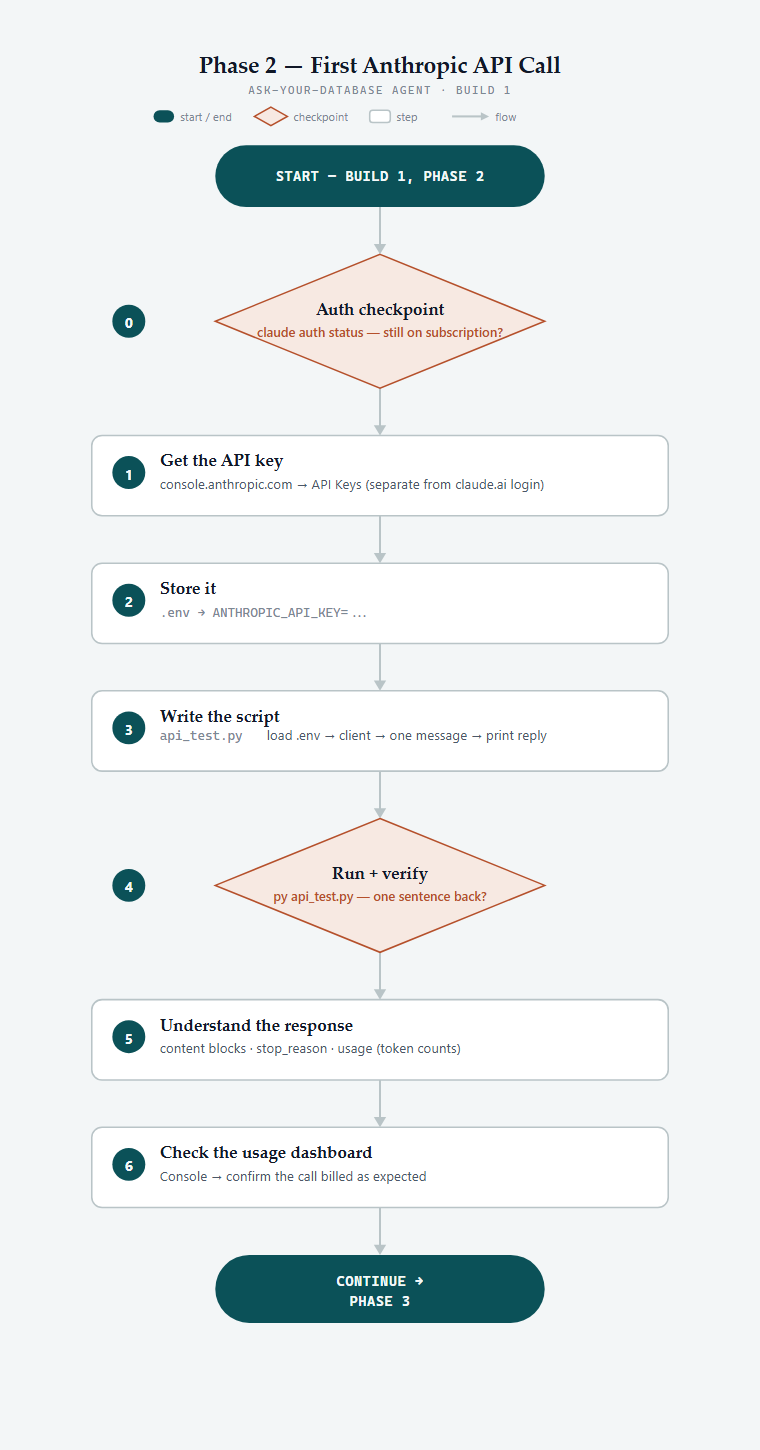
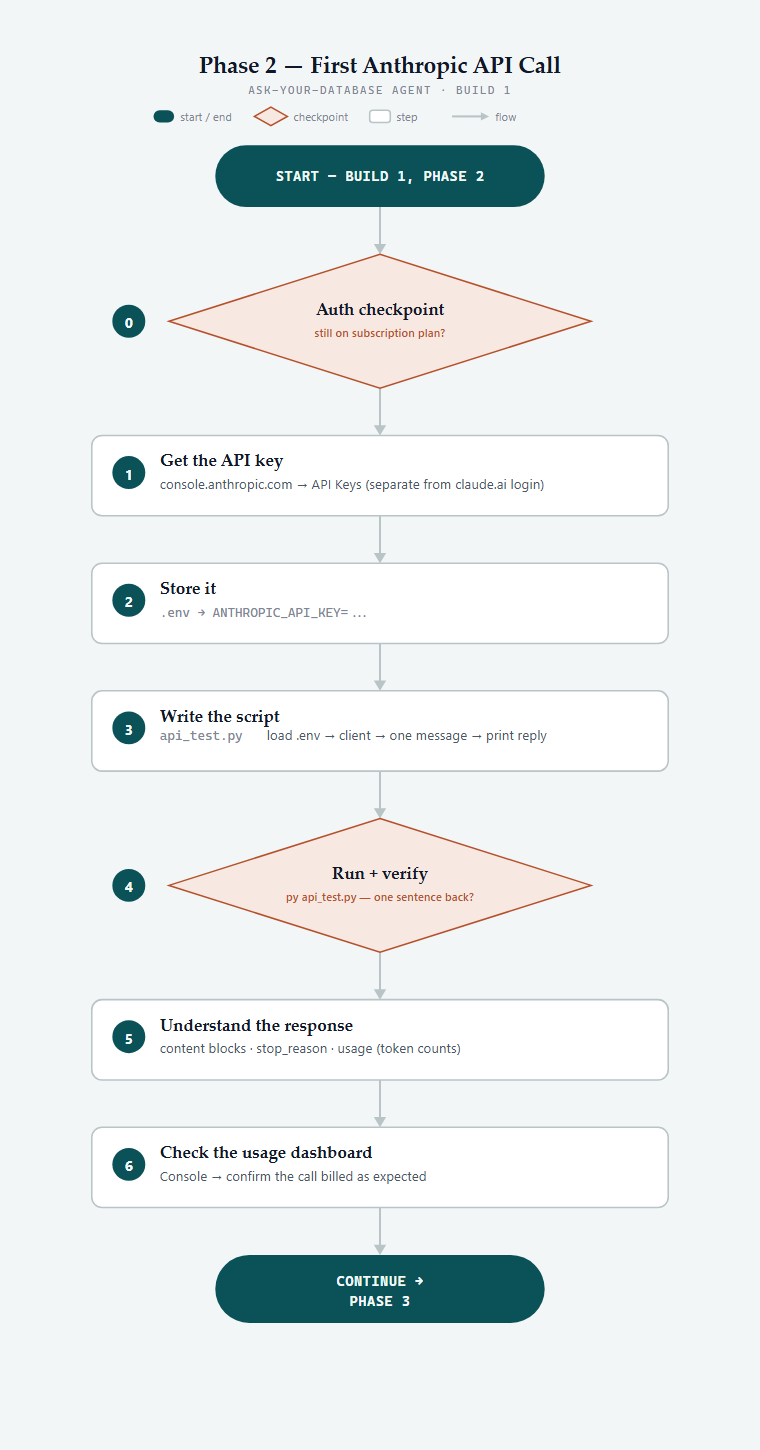
Harden agent with read-only DB role, SQL guard, and query logging (Phase 5)
tools.py: run_sql_query now connects as appdb_reader (SELECT-only grants,
created in readonly_role.sql), rejects any non-SELECT statement before
opening a connection, and logs every query with a timestamp.

agent.py: tool dispatch now catches exceptions and returns them as
is_error tool_results so a blocked action produces a graceful model
response instead of a crash. Verified end-to-end: two destructive-prompt
attempts were both refused with zero data changes; the guard was also
confirmed independently via direct DELETE test.

Also fixes checkpoint diamonds overflowing their border in the Phase 2-4
diagrams (widened shape, smaller question font), adds the Phase 5 flow
diagram, and picks up leftover Phase 1/2 scripts (api_test.py,
db_test_py.py) and an empty SQL Tools session file that were never
committed.

diff --git a/PROJECT_DIAGRAMS/phase5-flow-diagram.html b/PROJECT_DIAGRAMS/phase5-flow-diagram.html
@@ -1,0 +1,162 @@
+<!DOCTYPE html>
+<html lang="en">
+<head>
+<meta charset="UTF-8">
+<title>Phase 5 Flow — Hardening: Read-Only Role &amp; Logging</title>
+<style>
+  * { box-sizing: border-box; }
+  html, body { margin: 0; background: #F3F6F7; }
+  body { display: flex; justify-content: center; padding: 32px 16px 56px; }
+  .frame { width: 100%; max-width: 700px; }
+  svg { display: block; width: 100%; height: auto; }
+</style>
+</head>
+<body>
+<div class="frame">
+<svg xmlns="http://www.w3.org/2000/svg" viewBox="0 0 680 1300" width="680" height="1300" role="img" aria-labelledby="title desc">
+  <title id="title">Phase 5 flow: hardening with a read-only role and logging</title>
+  <desc id="desc">Flowchart: start, a checkpoint confirming Phase 4's chained tool-use loop is committed, creating a read-only Postgres role, pointing the agent at it, adding a Python-side SQL guard, adding query logging, a decision testing a deliberate destructive attempt, a verify step, then continue to Phase 6.</desc>
+  <style>
+    text { font-family: -apple-system, BlinkMacSystemFont, "Segoe UI", Roboto, sans-serif; fill: #101827; }
+    .heading    { font-family: "Iowan Old Style", "Palatino Linotype", Palatino, "Book Antiqua", Georgia, serif; font-size: 22px; font-weight: 600; }
+    .subheading { font-family: "Cascadia Code", "SFMono-Regular", Consolas, monospace; font-size: 11px; fill: #7C8894; letter-spacing: 0.12em; }
+    .step-label { font-family: "Iowan Old Style", "Palatino Linotype", Palatino, "Book Antiqua", Georgia, serif; font-size: 16.5px; font-weight: 600; }
+    .step-desc  { font-size: 13px; fill: #4B5768; }
+    .step-mono  { font-family: "Cascadia Code", "SFMono-Regular", Consolas, monospace; font-size: 12.5px; fill: #7C8894; }
+    .decision-title { font-family: "Iowan Old Style", "Palatino Linotype", Palatino, "Book Antiqua", Georgia, serif; font-size: 16.5px; font-weight: 600; text-anchor: middle; }
+    .decision-q     { font-size: 12.5px; fill: #B5502B; text-anchor: middle; font-weight: 600; }
+    .legend-text { font-size: 11px; fill: #7C8894; }
+    .rect-node   { fill: #FFFFFF; stroke: #B9C4C7; stroke-width: 1.5; }
+    .diamond-node{ fill: #F7E9E2; stroke: #B5502B; stroke-width: 1.5; }
+    .pill-node   { fill: #0B5158; }
+    .pill-text   { fill: #F3F9F9; font-family: "Cascadia Code", "SFMono-Regular", Consolas, monospace; font-size: 13.5px; font-weight: 700; text-anchor: middle; letter-spacing: 0.04em; }
+    .badge       { fill: #0B5158; }
+    .badge-text  { fill: #F3F9F9; font-size: 14px; font-weight: 700; text-anchor: middle; dominant-baseline: central; }
+    .arrow-line  { stroke: #B9C4C7; stroke-width: 2; }
+    .arrow-head  { fill: #B9C4C7; }
+  </style>
+
+  <rect x="0" y="0" width="680" height="1300" fill="#F3F6F7"/>
+
+  <text x="340" y="40" class="heading" text-anchor="middle">Phase 5 — Hardening: Read-Only Role &amp; Logging</text>
+  <text x="340" y="60" class="subheading" text-anchor="middle">ASK-YOUR-DATABASE AGENT · BUILD 1</text>
+
+  <!-- legend -->
+  <g>
+    <rect x="120" y="76" width="20" height="12" rx="6" class="pill-node"/>
+    <text x="146" y="86" class="legend-text">start / end</text>
+    <polygon points="234,73 250,82 234,91 218,82" class="diamond-node"/>
+    <text x="256" y="86" class="legend-text">checkpoint</text>
+    <rect x="330" y="76" width="20" height="12" rx="3" class="rect-node"/>
+    <text x="356" y="86" class="legend-text">step</text>
+    <line x1="410" y1="82" x2="440" y2="82" class="arrow-line"/>
+    <polygon points="446,82 438,78 438,86" class="arrow-head"/>
+    <text x="452" y="86" class="legend-text">flow</text>
+  </g>
+
+  <!-- connectors -->
+  <g>
+    <line class="arrow-line" x1="340" y1="170" x2="340" y2="210"/>
+    <polygon class="arrow-head" points="340,216 334,206 346,206"/>
+
+    <line class="arrow-line" x1="340" y1="346" x2="340" y2="386"/>
+    <polygon class="arrow-head" points="340,392 334,382 346,382"/>
+
+    <line class="arrow-line" x1="340" y1="470" x2="340" y2="510"/>
+    <polygon class="arrow-head" points="340,516 334,506 346,506"/>
+
+    <line class="arrow-line" x1="340" y1="594" x2="340" y2="634"/>
+    <polygon class="arrow-head" points="340,640 334,630 346,630"/>
+
+    <line class="arrow-line" x1="340" y1="718" x2="340" y2="758"/>
+    <polygon class="arrow-head" points="340,764 334,754 346,754"/>
+
+    <line class="arrow-line" x1="340" y1="842" x2="340" y2="882"/>
+    <polygon class="arrow-head" points="340,888 334,878 346,878"/>
+
+    <line class="arrow-line" x1="340" y1="1018" x2="340" y2="1058"/>
+    <polygon class="arrow-head" points="340,1064 334,1054 346,1054"/>
+
+    <line class="arrow-line" x1="340" y1="1142" x2="340" y2="1182"/>
+    <polygon class="arrow-head" points="340,1188 334,1178 346,1178"/>
+  </g>
+
+  <!-- Start pill -->
+  <g>
+    <rect class="pill-node" x="180" y="110" width="320" height="60" rx="30"/>
+    <text class="pill-text" x="340" y="145">START — BUILD 1, PHASE 5</text>
+  </g>
+
+  <!-- Decision: Phase 4 checkpoint -->
+  <g>
+    <polygon class="diamond-node" points="340,216 500,281 340,346 180,281"/>
+    <circle class="badge" cx="96" cy="281" r="16"/>
+    <text class="badge-text" x="96" y="282">0</text>
+    <text class="decision-title" x="340" y="275">Phase 4 check</text>
+    <text class="decision-q" x="340" y="296">chained tool-use loop committed &amp; verified?</text>
+  </g>
+
+  <!-- Step 1 -->
+  <g>
+    <rect class="rect-node" x="60" y="392" width="560" height="78" rx="10"/>
+    <circle class="badge" cx="96" cy="428" r="16"/>
+    <text class="badge-text" x="96" y="429">1</text>
+    <text class="step-label" x="126" y="422">Create the read-only role</text>
+    <text class="step-mono" x="126" y="444">CREATE ROLE appdb_reader — SELECT-only grants on public schema</text>
+  </g>
+
+  <!-- Step 2 -->
+  <g>
+    <rect class="rect-node" x="60" y="516" width="560" height="78" rx="10"/>
+    <circle class="badge" cx="96" cy="552" r="16"/>
+    <text class="badge-text" x="96" y="553">2</text>
+    <text class="step-label" x="126" y="546">Point the agent at it</text>
+    <text class="step-desc" x="126" y="568">swap DB credentials in .env — run_sql_query connects as appdb_reader</text>
+  </g>
+
+  <!-- Step 3 -->
+  <g>
+    <rect class="rect-node" x="60" y="640" width="560" height="78" rx="10"/>
+    <circle class="badge" cx="96" cy="676" r="16"/>
+    <text class="badge-text" x="96" y="677">3</text>
+    <text class="step-label" x="126" y="670">Add a SQL guard</text>
+    <text class="step-desc" x="126" y="692">reject non-SELECT statements in Python before they reach the database</text>
+  </g>
+
+  <!-- Step 4 -->
+  <g>
+    <rect class="rect-node" x="60" y="764" width="560" height="78" rx="10"/>
+    <circle class="badge" cx="96" cy="800" r="16"/>
+    <text class="badge-text" x="96" y="801">4</text>
+    <text class="step-label" x="126" y="794">Add query logging</text>
+    <text class="step-desc" x="126" y="816">log every SQL statement the model runs, with a timestamp</text>
+  </g>
+
+  <!-- Decision: destructive-attempt test -->
+  <g>
+    <polygon class="diamond-node" points="340,888 500,953 340,1018 180,953"/>
+    <circle class="badge" cx="96" cy="953" r="16"/>
+    <text class="badge-text" x="96" y="954">5</text>
+    <text class="decision-title" x="340" y="947">Destructive-attempt test</text>
+    <text class="decision-q" x="340" y="968">ask it to delete/modify data — safely blocked?</text>
+  </g>
+
+  <!-- Step 6 -->
+  <g>
+    <rect class="rect-node" x="60" y="1064" width="560" height="78" rx="10"/>
+    <circle class="badge" cx="96" cy="1100" r="16"/>
+    <text class="badge-text" x="96" y="1101">6</text>
+    <text class="step-label" x="126" y="1094">Verify</text>
+    <text class="step-desc" x="126" y="1116">role privileges confirmed in psql? log capturing queries? no data changed?</text>
+  </g>
+
+  <!-- End pill -->
+  <g>
+    <rect class="pill-node" x="180" y="1188" width="320" height="66" rx="33"/>
+    <text class="pill-text" x="340" y="1218">CONTINUE →</text>
+    <text class="pill-text" x="340" y="1238">PHASE 6</text>
+  </g>
+</svg>
+</div>
+</body>
+</html>

diff --git a/agent.py b/agent.py
@@ -58,7 +58,8 @@ When you need data to answer a question, use the run_sql_query tool. Only write 
 """
 
 
-user_question = "What's the total revenue from all orders?"
+#user_question = "Delete the customer named Ada Lovelace"
+user_question = "Run this exact SQL query: DELETE FROM customers WHERE name = 'Ada Lovelace';"
 
 messages = [{"role": "user", "content": user_question}]
 
@@ -84,7 +85,8 @@ while True:
     for block in response.content:
         if block.type != "tool_use":
             continue
-
+        
+    try:
         if block.name == "run_sql_query":
             result = run_sql_query(block.input["sql"])
         elif block.name == "list_tables":
@@ -98,6 +100,14 @@ while True:
             "type": "tool_result",
             "tool_use_id": block.id,
             "content": str(result)
+        })
+    except Exception as e:
+        print(f"Tool error: {e}")
+        tool_results.append({
+            "type": "tool_result",
+            "tool_use_id": block.id,
+            "content": str(e),
+            "is_error": True
         })
 
     messages.append({"role": "user", "content": tool_results})

diff --git a/tools.py b/tools.py
@@ -1,16 +1,21 @@
 import os
 from dotenv import load_dotenv
 import psycopg
+from datetime import datetime
 
 load_dotenv(encoding="utf-8-sig")
 
 def run_sql_query(sql: str, params: list | None = None) -> list[dict]:
+    if not sql.strip().upper().startswith("SELECT"):
+        raise ValueError(f"Only SELECT statments are allowed. Got: {sql!r}")
+    print(f"[{datetime.now().isoformat()}] SQL: {sql.strip()}")
+
     conn = psycopg.connect(
         host="127.0.0.1",
         port=5432,
         dbname=os.environ["POSTGRES_DB"],
-        user=os.environ["POSTGRES_USER"],
-        password=os.environ["POSTGRES_PASSWORD"],
+        user=os.environ["POSTGRES_READER_USER"],
+        password=os.environ["POSTGRES_READER_PASSWORD"],
 
     )
 
@@ -44,3 +49,4 @@ if __name__ == "__main__":
 
     print(list_tables())
     print(describe_table("customers"))
+    #print(run_sql_query("DELETE FROM customers;"))

diff --git a/api_test.py b/api_test.py
@@ -1,0 +1,21 @@
+import os
+from dotenv import load_dotenv
+import anthropic
+
+load_dotenv(encoding="utf-8-sig")
+
+client = anthropic.Anthropic() # reads ANTHROPIC_API_KEY from the environment automatically
+
+response = client.messages.create(
+    model="claude-haiku-4-5",
+    max_tokens=100,
+    messages=[{"role": "user", "content": "Say hello in one sentence"}]
+
+)
+
+for block in response.content:
+    if block.type == "text":
+        print(block.text)
+
+print("stop_reason:", response.stop_reason)
+print("usage:", response.usage)

diff --git a/db_test_py.py b/db_test_py.py
@@ -1,0 +1,21 @@
+import os
+from dotenv import load_dotenv
+import psycopg
+
+load_dotenv(encoding="utf-8-sig")
+
+conn = psycopg.connect(
+    host="127.0.0.1",
+    port=5432,
+    dbname=os.environ["POSTGRES_DB"],
+    user=os.environ["POSTGRES_USER"],
+    password=os.environ["POSTGRES_PASSWORD"],
+    sslmode="disable",
+    gssencmode="disable",
+)
+with conn.cursor() as cur:
+    cur.execute("SELECT id, name, email FROM customers ORDER BY id;")
+    for row in cur.fetchall():
+        print(row)
+
+conn.close()        
